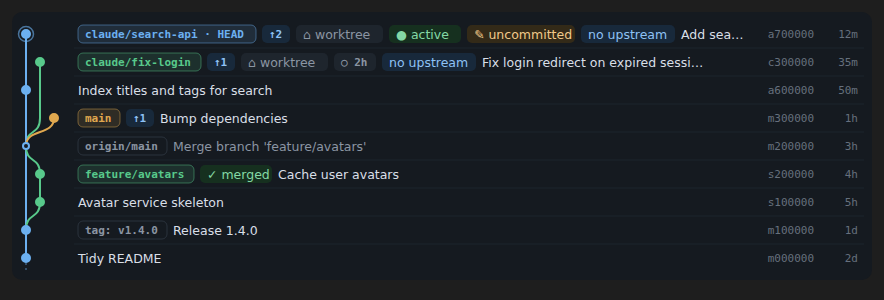
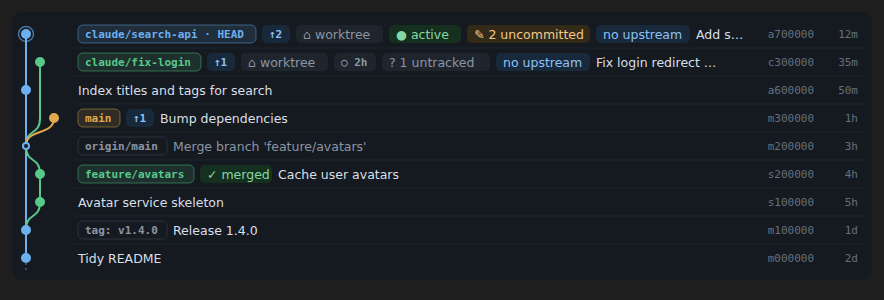
docs(readme): 示範截圖改成分開顯示的未 commit 與未追蹤徽章
- 虛構資料裡 search-api 有 2 個未 commit、fix-login 有 1 個未追蹤，深淺兩張重截
- 圖片的替代文字一併更新

Changed region(s): [[0.4276, 0.06, 0.8247, 0.24]]

diff --git a/README.zh-TW.md b/README.zh-TW.md
@@ -9,7 +9,7 @@ Claude Code 裡的 git 線圖。[English](README.md)
 
 <picture>
   <source media="(prefers-color-scheme: dark)" srcset="docs/graph-dark.png">
-  <img alt="canopy 的線圖面板：三個 worktree 的分支、一次合併、未推 commit、進行中的 session 與未 commit 修改的徽章" src="docs/graph-light.png">
+  <img alt="canopy 的線圖面板：三個 worktree 的分支、一次合併、未推 commit、進行中的 session、未 commit 修改與未追蹤檔案的徽章" src="docs/graph-light.png">
 </picture>
 
 <sub>畫面為虛構 repo 的示範資料。</sub>

diff --git a/README.md b/README.md
@@ -10,7 +10,7 @@ the whole tree.
 
 <picture>
   <source media="(prefers-color-scheme: dark)" srcset="docs/graph-dark.png">
-  <img alt="canopy's graph pane: branches from three worktrees, a merge, badges for unpushed commits, an active session and uncommitted changes" src="docs/graph-light.png">
+  <img alt="canopy's graph pane: branches from three worktrees, a merge, badges for unpushed commits, an active session, uncommitted changes and an untracked file" src="docs/graph-light.png">
 </picture>
 
 <sub>Example data from a made-up repository.</sub>
